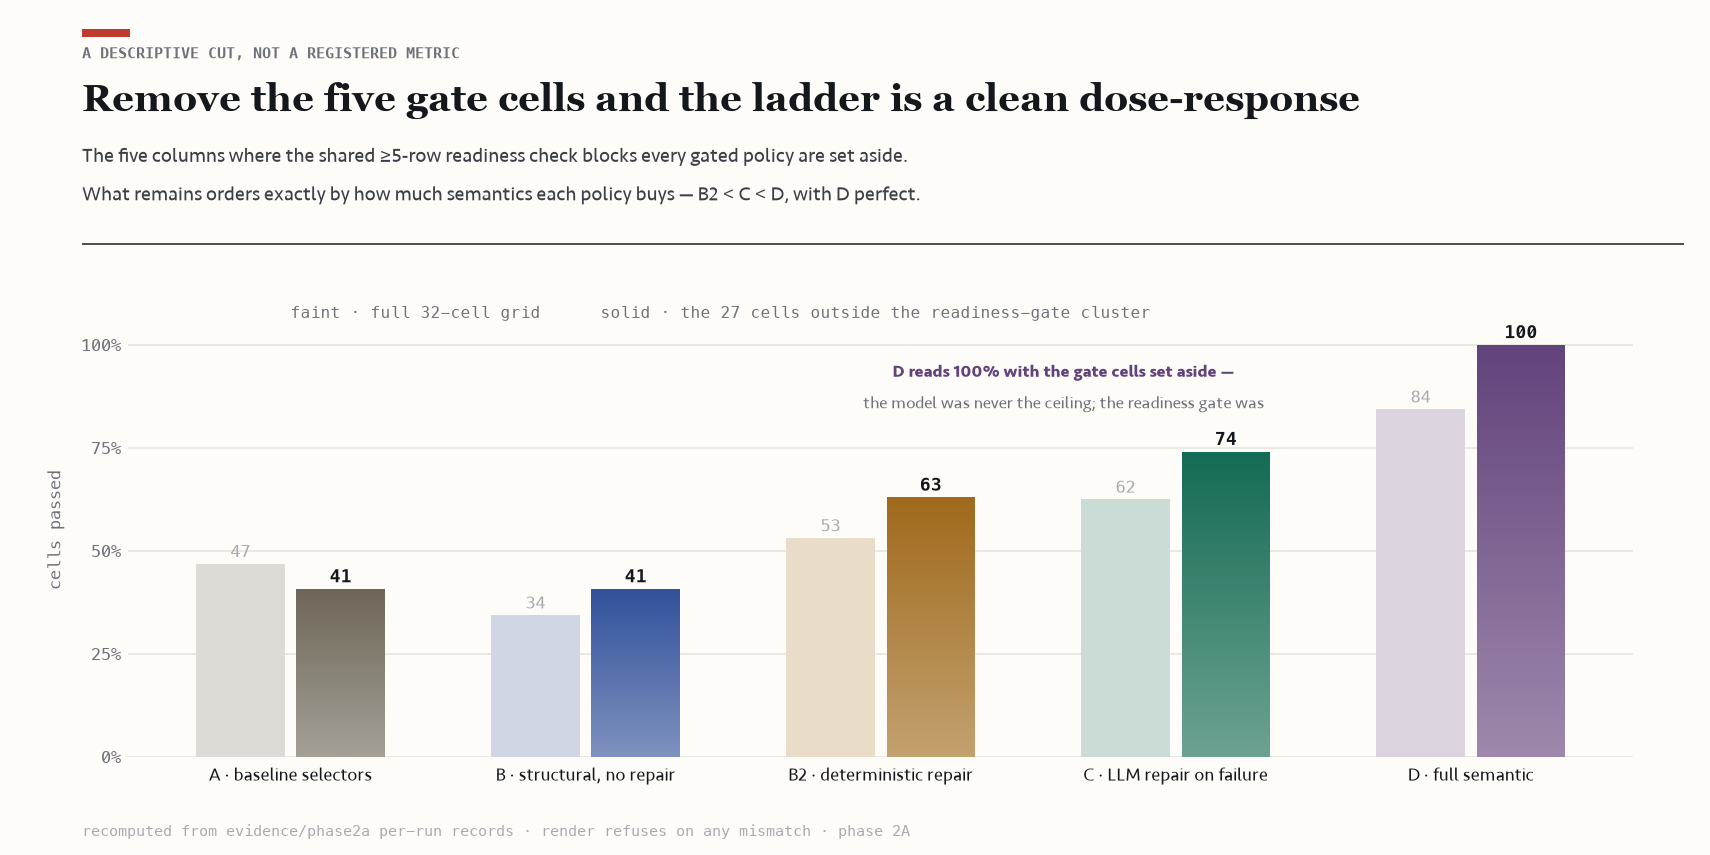
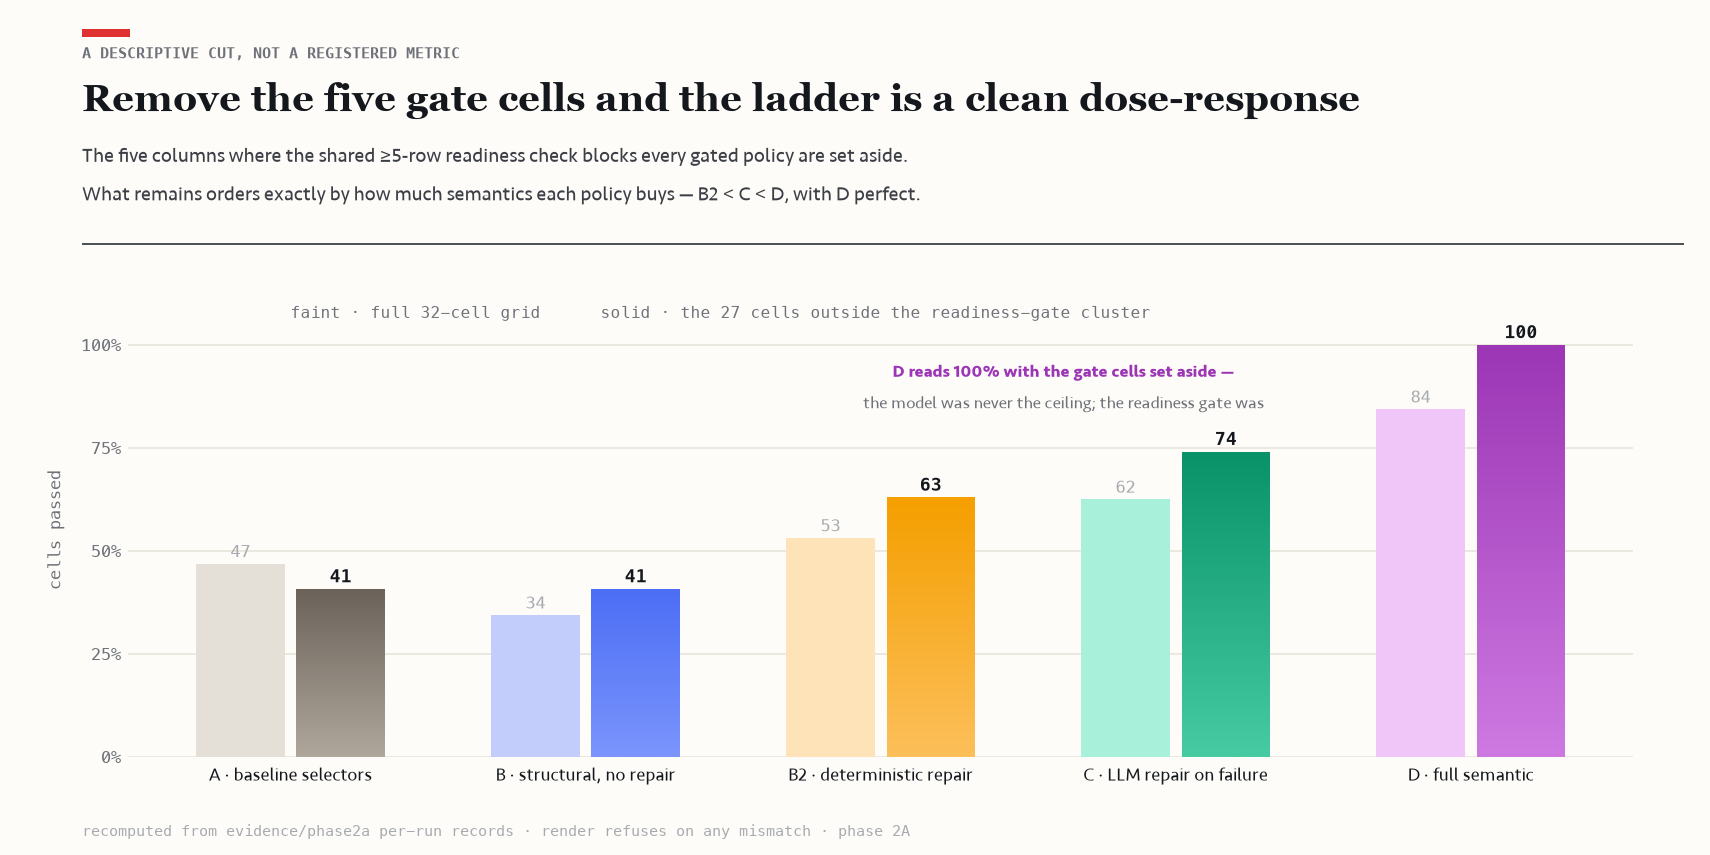
Stripe-warm vibrant palette with duotone gradient marks
Second research pass targeted the exact tension (vibrant without garish):
IBM Carbon's alternating vivid-mid/deep tokens, Maureen Stone's Tableau
10 redesign (high chroma pulled off the Crayola corners), Muth's
chroma-equalization and warm-shift guidance, Tableau 20's designed
hue/light-partner pairs. Applied as: cobalt / marigold / emerald /
grape / warm slate at chroma-equalized mid lightness, each hue with a
designed lighter partner; within-mark duotone gradients on solid bars
(hue at cap, two-thirds toward partner at base); scatter highlight
cores use the partners; crimson-coral failure accent on mint-tint
passes. Vibrancy lives in the marks, the field stays warm and quiet.

diff --git a/scripts/render-phase2a-charts.py b/scripts/render-phase2a-charts.py
@@ -127,18 +127,26 @@ MUTED = "#6E7178"   # secondary labels, ticks
 FAINT = "#A7AAAE"   # footnote, ghost figures
 GRID  = "#E8E4DB"   # hairline grid on paper
 RULE  = "#1F232A"   # header hairline rule
-VERM  = "#C13A2E"   # signature carmine — tab · failures · highlight
+VERM  = "#E03131"   # signature crimson-coral — tab · failures · highlight
 
-# Per-policy palette — deep jewel register: high chroma at low lightness,
-# varied lightness across hues (luminosity from contrast, not brightness).
+# Per-policy palette — "Stripe-warm vibrant": chroma-equalized mid-lightness
+# hues, warm-shifted toward the paper. Each hue ships with a designed lighter
+# partner for within-mark duotone gradients (the Tableau-20 mechanism).
 POLICY_COLOR = {
-    "A":  "#6E6759",   # deep warm gray
-    "B":  "#31519B",   # sapphire
-    "B2": "#A06A1C",   # bronze-amber
-    "C":  "#146B54",   # emerald
-    "D":  "#63437C",   # amethyst
+    "A":  "#6B6259",   # warm slate
+    "B":  "#4C6EF5",   # cobalt
+    "B2": "#F59F00",   # marigold
+    "C":  "#099268",   # emerald
+    "D":  "#9C36B5",   # grape
 }
-PASS_TINT = "#E7EFE9"  # near-silent pass tile — the grid's elegance is quiet passes
+POLICY_LIGHT = {
+    "A":  "#CFC7BC",   # bone
+    "B":  "#91A7FF",   # periwinkle
+    "B2": "#FFCE85",   # light gold
+    "C":  "#63E6BE",   # mint
+    "D":  "#E599F7",   # orchid
+}
+PASS_TINT = "#E6F6EC"  # quiet mint-sage pass tile — passes stay silent
 
 
 def blend(hex1, hex2, t):
@@ -160,28 +168,27 @@ POLICY_LABEL = {
 }
 
 
-def grad_bar(ax, x, h, w, color, n=180):
-    """Solid bar with a within-mark vertical gradient: full hue at the cap
-    fading toward a paper-lightened base — depth without any outer halo."""
+def grad_bar(ax, x, h, w, color, light, n=180):
+    """Solid bar with a within-mark duotone gradient: full hue at the cap
+    fading toward its designed lighter partner at the base."""
     import numpy as np
     from matplotlib import colors as mcolors
     top = np.array(mcolors.to_rgb(color))
-    bot = np.array(mcolors.to_rgb(blend(color, BG, 0.38)))
+    bot = np.array(mcolors.to_rgb(blend(color, light, 0.68)))
     t = np.linspace(0, 1, n).reshape(-1, 1, 1)
     img = bot + (top - bot) * t
     ax.imshow(img, extent=(x - w / 2, x + w / 2, 0, h), origin="lower",
               aspect="auto", zorder=3, interpolation="bilinear")
 
 
-def dot(ax, x, y, color, s=66, filled=True):
+def dot(ax, x, y, color, light, s=66, filled=True):
     """Open ring = the policy spends nothing on inference; filled = it pays.
     Only the filled marks carry depth: one tight same-hue blur under a crisp
-    core, plus a lighter-core highlight (gradient-within-hue)."""
+    core, plus a highlight core in the hue's designed lighter partner."""
     if filled:
         ax.scatter([x], [y], s=s * 2.8, color=color, alpha=0.20, lw=0, zorder=2)
         ax.scatter([x], [y], s=s, color=color, lw=0.7, edgecolors=BG, zorder=3)
-        ax.scatter([x], [y], s=s * 0.38, color=blend(color, "#FFFFFF", 0.45),
-                   alpha=0.9, lw=0, zorder=4)
+        ax.scatter([x], [y], s=s * 0.38, color=light, alpha=0.9, lw=0, zorder=4)
     else:
         ax.scatter([x], [y], s=s, facecolors=BG, edgecolors=color, lw=1.6, zorder=3)
 
@@ -322,7 +329,7 @@ def chart_outcome_map(cells):
            "32 held-out scenarios × 5 policies: three failure regimes",
            "Each tile pools five sweeps; the grid repeats exactly, so the blocks are architecture, not noise. Class drift falls to\n"
            "deterministic repair. Silent decoys fall only to full semantics. The small-page cluster falls to nobody behind the readiness check.",
-           legend=[("passed all 5 sweeps", "#D3E2D8"), ("failed all 5", VERM)])
+           legend=[("passed all 5 sweeps", "#C9E9D6"), ("failed all 5", VERM)])
     footnote(fig)
     fig.savefig(OUT / "outcome_map.png", facecolor=BG)
     plt.close(fig)
@@ -341,7 +348,7 @@ def chart_pass_vs_cost(cells, costs):
         npass = sum(all(p for _, p, _ in cells[pol][s]) for s in SCENARIOS)
         cost = sum(costs[pol]) / len(costs[pol]) if costs[pol] else 0.0
         pts[pol] = (cost, npass)
-        dot(ax, cost, npass, POLICY_COLOR[pol], filled=pol in KEYED)
+        dot(ax, cost, npass, POLICY_COLOR[pol], POLICY_LIGHT[pol], filled=pol in KEYED)
 
     offsets = {"A": (0.022, 0.0), "B": (0.022, 0.0), "B2": (0.022, 0.0),
                "C": (0.022, 0.25), "D": (-0.026, 0.25)}
@@ -400,8 +407,9 @@ def chart_gate_effect(cells):
         col = POLICY_COLOR[pol]
         full = sum(all(p for _, p, _ in cells[pol][s]) for s in SCENARIOS) / 32
         ex = sum(all(p for _, p, _ in cells[pol][s]) for s in SCENARIOS if s not in GATE5) / 27
-        ax.bar(i - w / 2 - 0.02, full * 100, w, color=blend(col, BG, 0.78), zorder=2)
-        grad_bar(ax, i + w / 2 + 0.02, ex * 100, w, col)
+        ax.bar(i - w / 2 - 0.02, full * 100, w,
+               color=blend(POLICY_LIGHT[pol], BG, 0.45), zorder=2)
+        grad_bar(ax, i + w / 2 + 0.02, ex * 100, w, col, POLICY_LIGHT[pol])
         ax.text(i - w / 2 - 0.02, full * 100 + 1.6, f"{full * 100:.0f}", fontsize=8,
                 family=MONO, color=FAINT, ha="center")
         ax.text(i + w / 2 + 0.02, ex * 100 + 1.6, f"{ex * 100:.0f}", fontsize=8.6,
